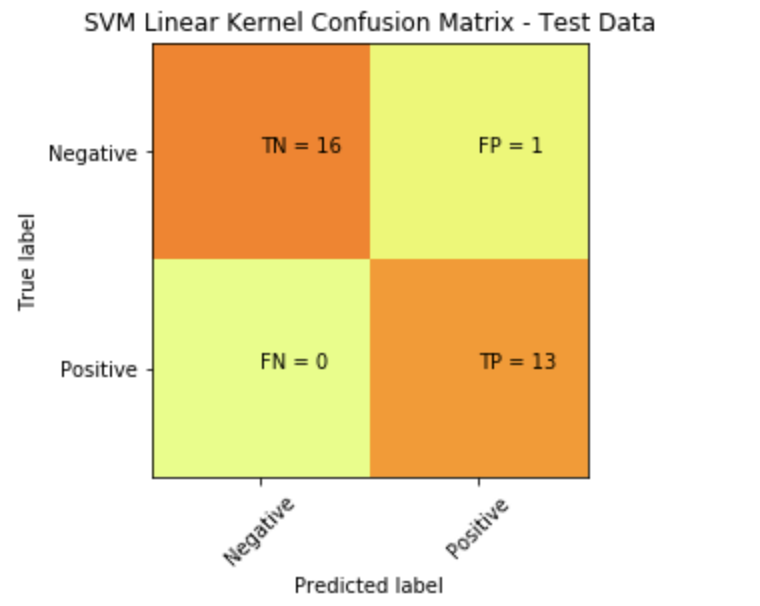
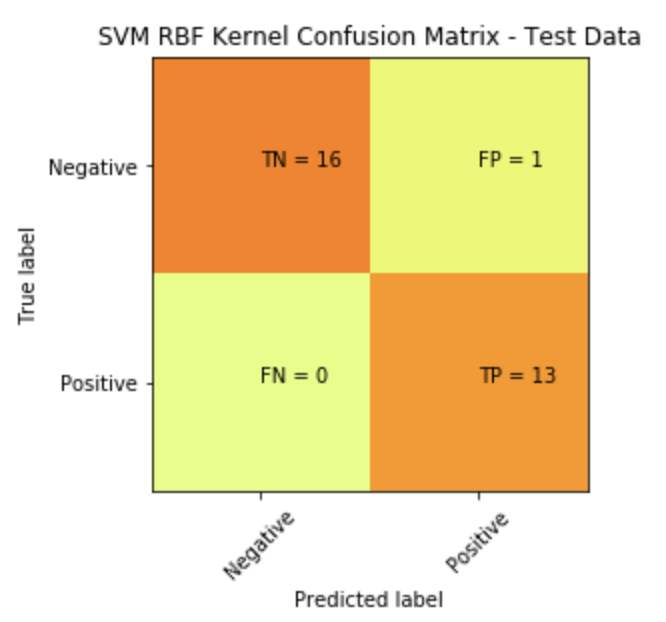
updates additional fixes

diff --git a/_posts/2017-12-24-How-To-Plot-A-Confusion-Matrix-In-Python.md b/_posts/2017-12-24-How-To-Plot-A-Confusion-Matrix-In-Python.md
@@ -133,6 +133,7 @@ Visually the above doesn't easily convey how is our classifier performing, but w
 The confusion matrix tells us we a have total of 15 (13 + 2) misclassified data out of the 30 test points (in terms of: Versicolor, or Not Versicolor). A better way to visualize this can be accomplished with the code below:
 
 {% highlight python %}
+plt.clf()
 plt.imshow(cm, interpolation='nearest', cmap=plt.cm.Wistia)
 classNames = ['Negative','Positive']
 plt.title('Versicolor or Not Versicolor Confusion Matrix - Test Data')
@@ -142,10 +143,10 @@ tick_marks = np.arange(len(classNames))
 plt.xticks(tick_marks, classNames, rotation=45)
 plt.yticks(tick_marks, classNames)
 s = [['TN','FP'], ['FN', 'TP']]
-
 for i in range(2):
     for j in range(2):
         plt.text(j,i, str(s[i][j])+" = "+str(cm[i][j]))
+plt.show()
 {% endhighlight %}
 
 ![png]({{ site.baseurl }}/images/cm.png)
@@ -154,6 +155,7 @@ To plot and display the decision boundary that separates the two classes (Versic
 
 {% highlight python %}
 from matplotlib.colors import ListedColormap
+plt.clf()
 X_set, y_set = x_test, y_test
 X1, X2 = np.meshgrid(np.arange(start = X_set[:, 0].min() - 1, stop = X_set[:, 0].max() + 1, step = 0.01),
                      np.arange(start = X_set[:, 1].min() - 1, stop = X_set[:, 1].max() + 1, step = 0.01))
@@ -165,8 +167,8 @@ for i, j in enumerate(np.unique(y_set)):
     plt.scatter(X_set[y_set == j, 0], X_set[y_set == j, 1],
                 c = ListedColormap(('red', 'green'))(i), label = j)
 plt.title('Logistic Regression (Test set)')
-plt.xlabel('Age')
-plt.ylabel('Estimated Salary')
+plt.xlabel('Petal Size')
+plt.ylabel('Versicolor')
 plt.legend()
 plt.show()
 {% endhighlight %}
@@ -179,16 +181,17 @@ We can try another non-linear classifier, in this case we can use SVM with a Gau
 
 {% highlight python %}
 from sklearn.svm import SVC
+
 svm = SVC(kernel='rbf', random_state=0)
 svm.fit(x_train, y_train)
 
 predicted = svm.predict(x_test)
 
 cm = confusion_matrix(y_test, predicted)
-
+plt.clf()
 plt.imshow(cm, interpolation='nearest', cmap=plt.cm.Wistia)
 classNames = ['Negative','Positive']
-plt.title('SVM Linear Kernel Confusion Matrix - ALL Data')
+plt.title('SVM RBF Kernel Confusion Matrix - Test Data')
 plt.ylabel('True label')
 plt.xlabel('Predicted label')
 tick_marks = np.arange(len(classNames))
@@ -199,6 +202,7 @@ s = [['TN','FP'], ['FN', 'TP']]
 for i in range(2):
     for j in range(2):
         plt.text(j,i, str(s[i][j])+" = "+str(cm[i][j]))
+plt.show()
 {% endhighlight %}
 
 ![png]({{ site.baseurl }}/images/cm2.png)
@@ -208,3 +212,5 @@ Here is the plot to show the decision boundary
 ![png]({{ site.baseurl }}/images/svm.png)
 
 Hope this helps.
+
+![png]({{ site.baseurl }}/images/figure1.png)
